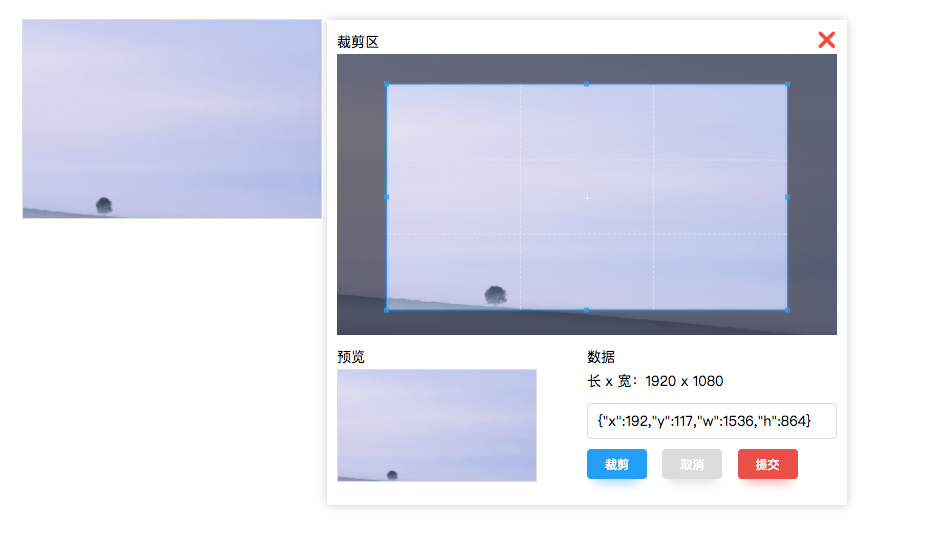
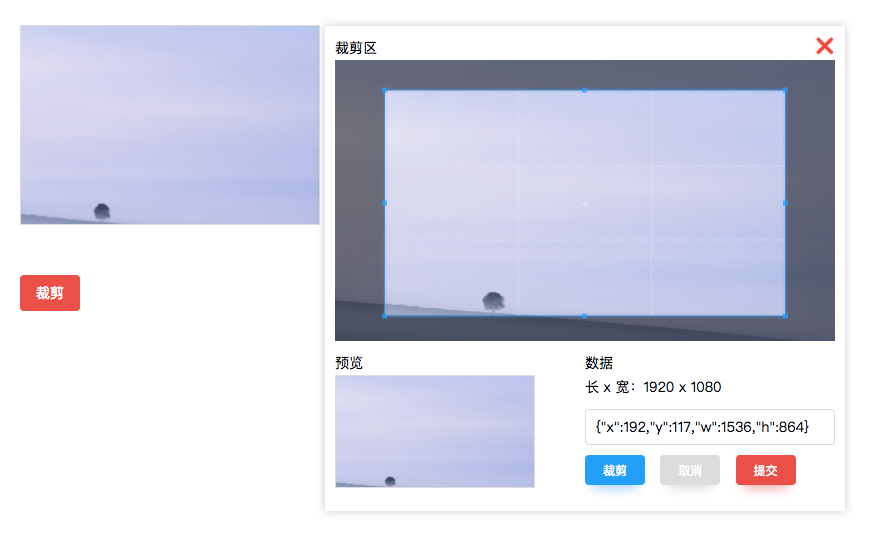
修复提交后没自动关闭

Changed region(s): [[0.0, 0.0312, 0.9383, 0.9046], [0.0, 0.4991, 0.0908, 0.5615]]

diff --git a/src/cropper.vue b/src/cropper.vue
@@ -21,7 +21,7 @@
           <div class="v-cropper-button">
             <button class="v-cropper-crop" @click="getCropBoxData">裁剪</button>
             <button class="v-cropper-cancel" @click="resetCropBoxData">取消</button>
-            <button class="v-cropper-submit" @click="submit">提交</button>
+            <button class="v-cropper-submit" @click="submit" :disabled="!confirm">提交</button>
           </div>
         </div>
       </div>
@@ -91,6 +91,7 @@ export default {
     submit () {
       this.$emit('update:result', this.croppedImg)
       this.$emit('update:imgData', this.imageData)
+      this.close()
     },
     close () {
       this.resetCropBoxData()
@@ -270,6 +271,9 @@ export default {
     color: #fff;
     background-color: #f23030;
     border: 1px solid #f23030;
+  }
+  .v-cropper-submit[disabled="disabled"]{
+    cursor: not-allowed;
   }
   .v-cropper-submit:hover{
     background-color: #cd3219;

diff --git a/README.md b/README.md
@@ -21,10 +21,13 @@ Vue.use(VueCropper)
 ```
 ```
 // app.vue
-<div class="cropper_warp" @click.self="show">
-    <img :src="result" alt="croppedImg" v-if="result"/>
-    <vue-cropper v-if="isShow" :img="imgUrl" :ratio="16/9" :result.sync="result" :imgData.sync="imgData" v-on:close="hide"></vue-cropper>
-  </div>
+<div>
+    <div class="cropper_warp">
+      <img :src="result" alt="croppedImg" v-if="result"/>
+      <vue-cropper v-if="isShow" :img="imgUrl" :ratio="16/9" :result.sync="result" :imgData.sync="imgData" v-on:close="hide"></vue-cropper>
+    </div>
+    <button @click="show">裁剪</button>
+</div>
 
   data () {
       return {
@@ -59,7 +62,7 @@ Vue.use(VueCropper)
 #### v-on:close
 关闭组件的方法
 
-###另外：
-组件样式为绝对定位，倾将父元素设置为相对定位
+### 另外：
+组件样式为绝对定位，请将父元素设置为相对定位
 
 #### github: [https://github.com/Weeken/vue-cropper-simple](https://github.com/Weeken/vue-cropper-simple)
